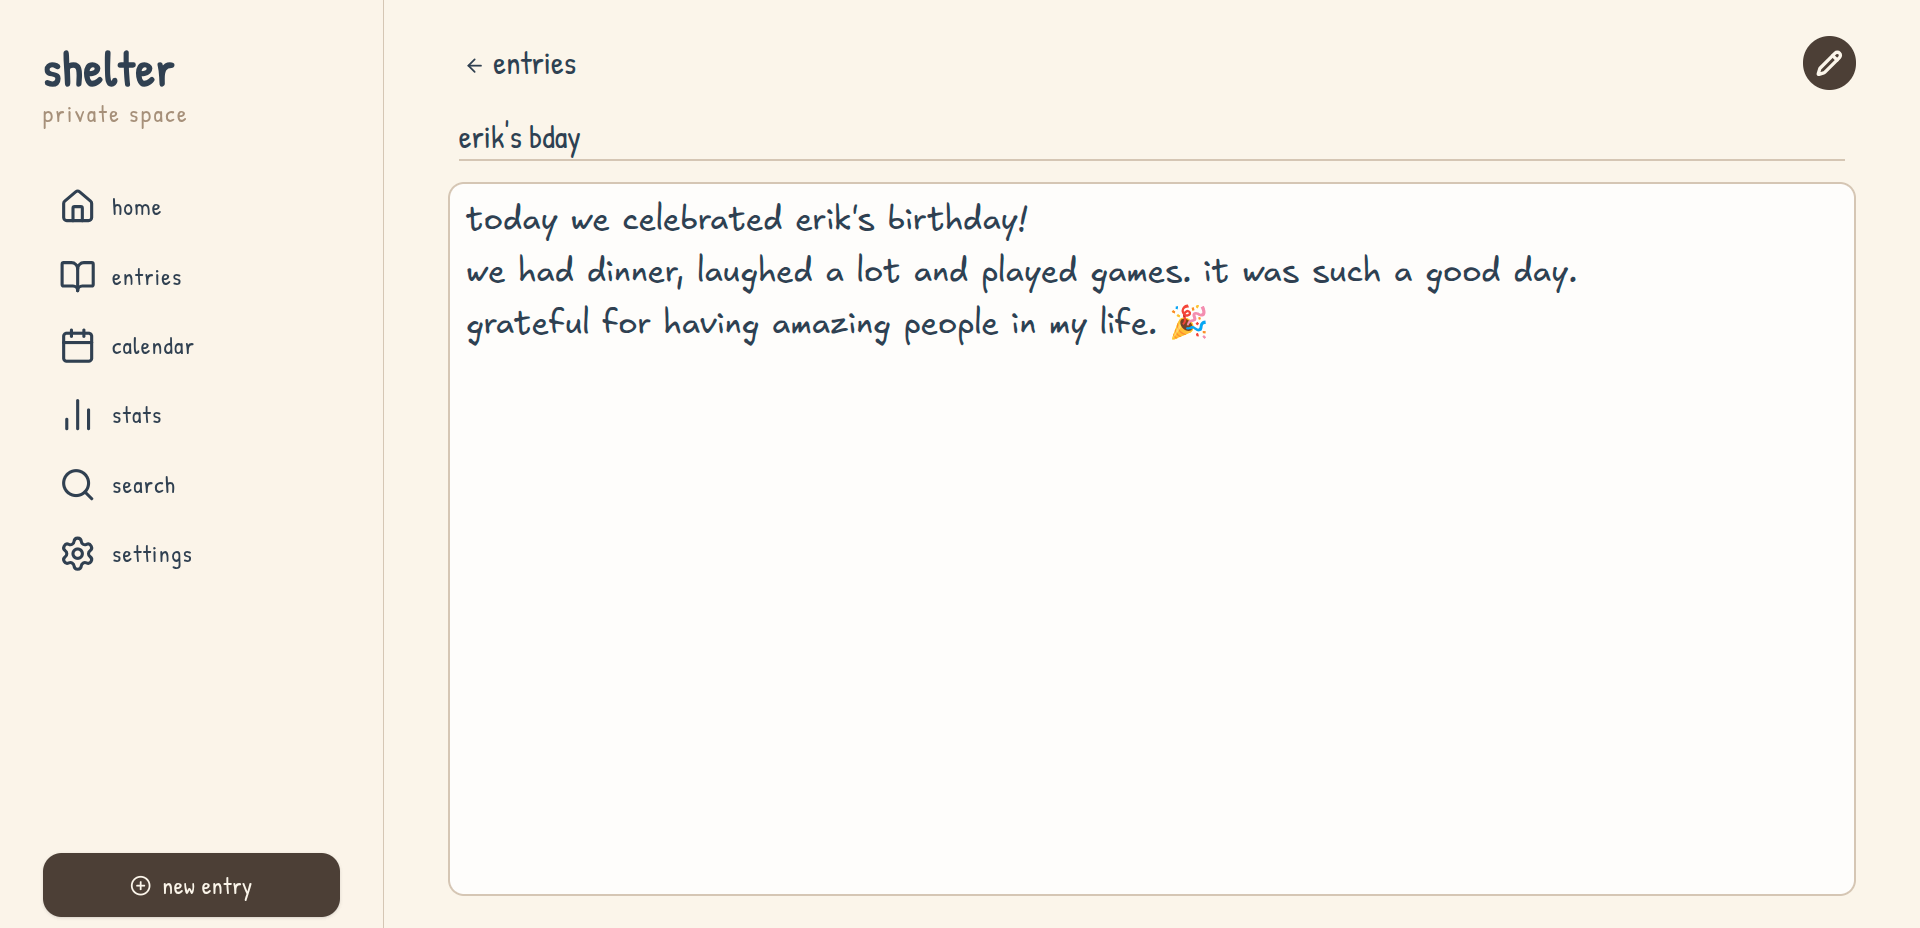
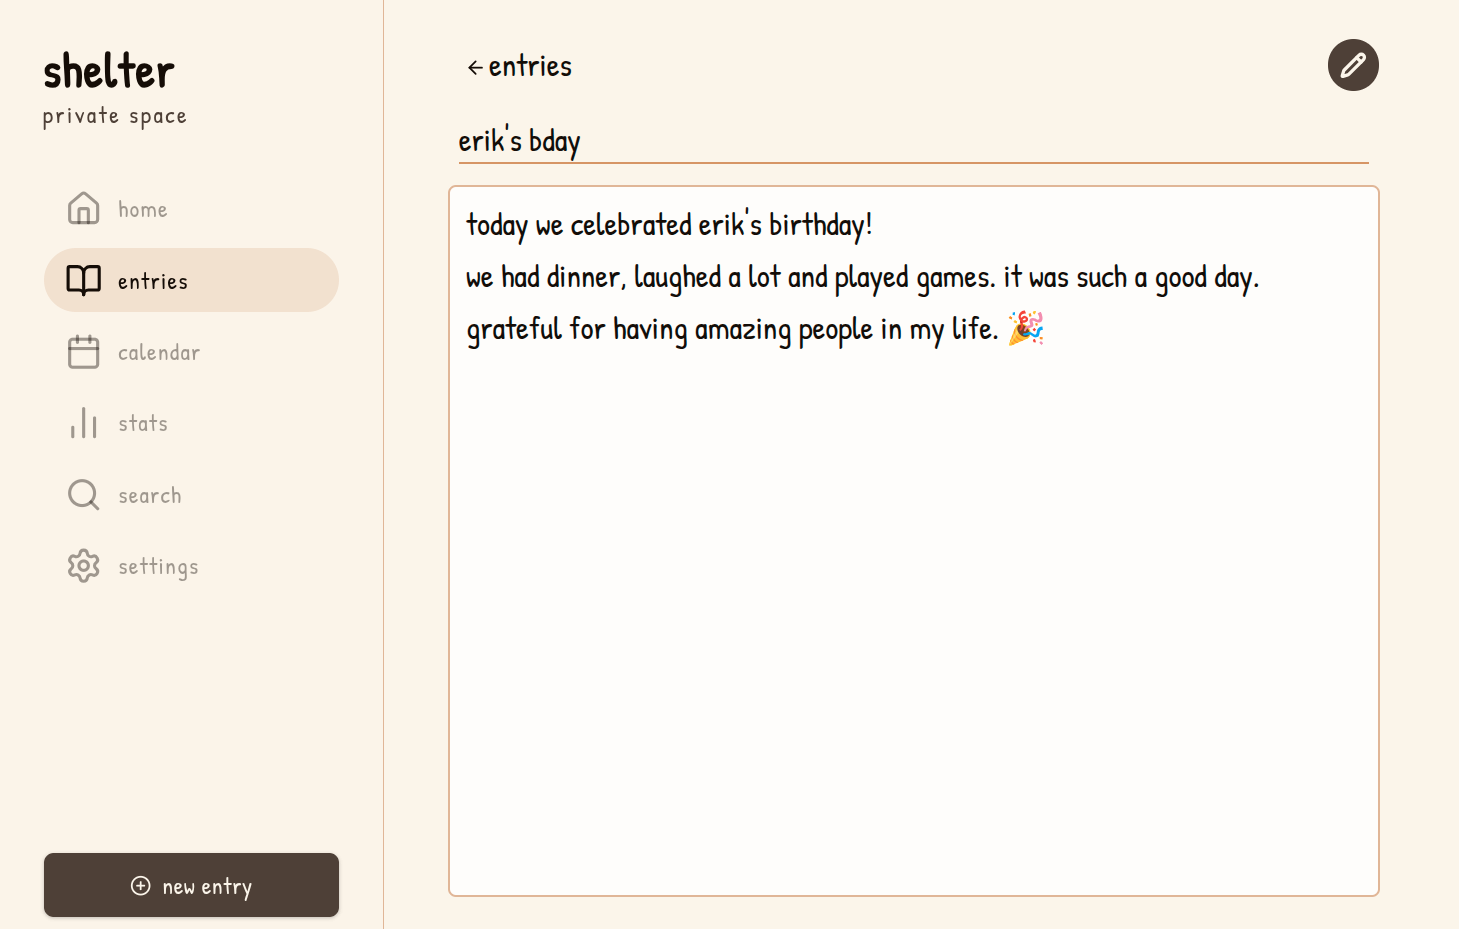
docs: update README and correct local server URL

diff --git a/README.md b/README.md
@@ -9,7 +9,11 @@ Shelter is built with [Typescript](https://www.typescriptlang.org/), [SvelteKit]
 ## Features
 
 - **Local-First Architecture:** Fast, resilient, and works entirely offline using IndexedDB.
-- **End-to-End Encryption (E2EE):** Client-side encryption ensures nobody can read your entries.
+- **End-to-End Encryption (E2EE):** Client-side encryption via the Web Crypto API. Nobody can read your entries except you, not even us.
+- **No account required:** No email, no server, no tracking. Just open the app and start writing.
+- **Rich Text Editor:** Write with formatting using a clean, distraction-free editor powered by Tiptap.
+- **Multilingual:** Available in English, Catalan and Danish, with more languages on the way.
+- **Open Source:** Fully auditable code under the GNU AGPLv3 license.
 
 ## Getting Started
 
@@ -41,7 +45,7 @@ pnpm install
 pnpm run dev
 ```
 
-Open `localhost:3000` in your browser to view the local development server.
+Open `localhost:5173` in your browser to view the local development server.
 
 ## Contributing
 